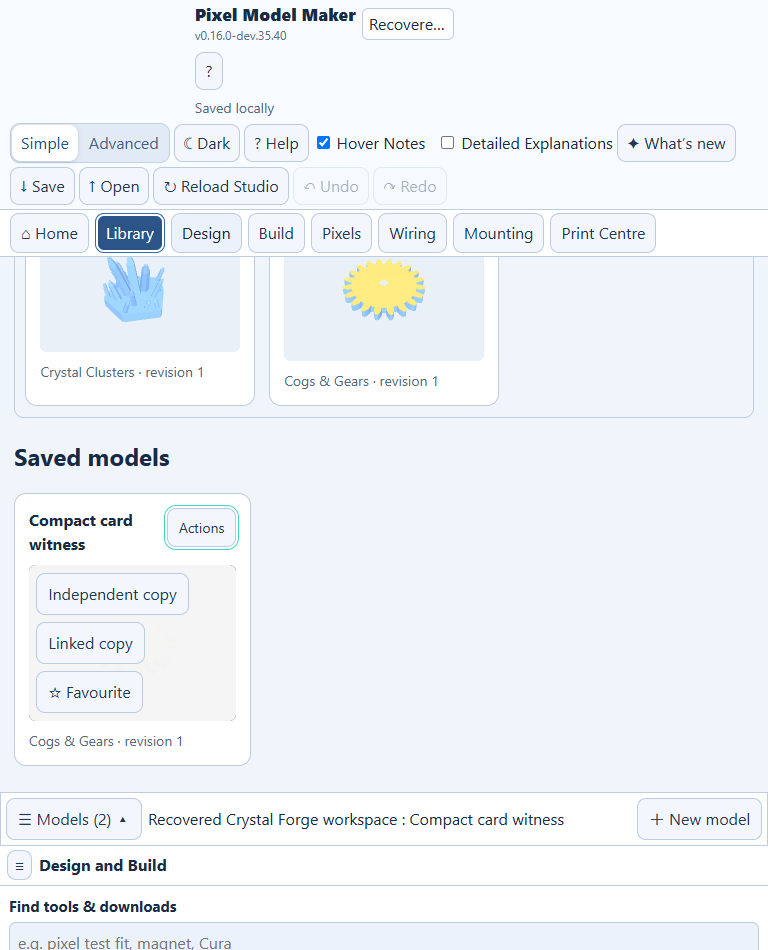
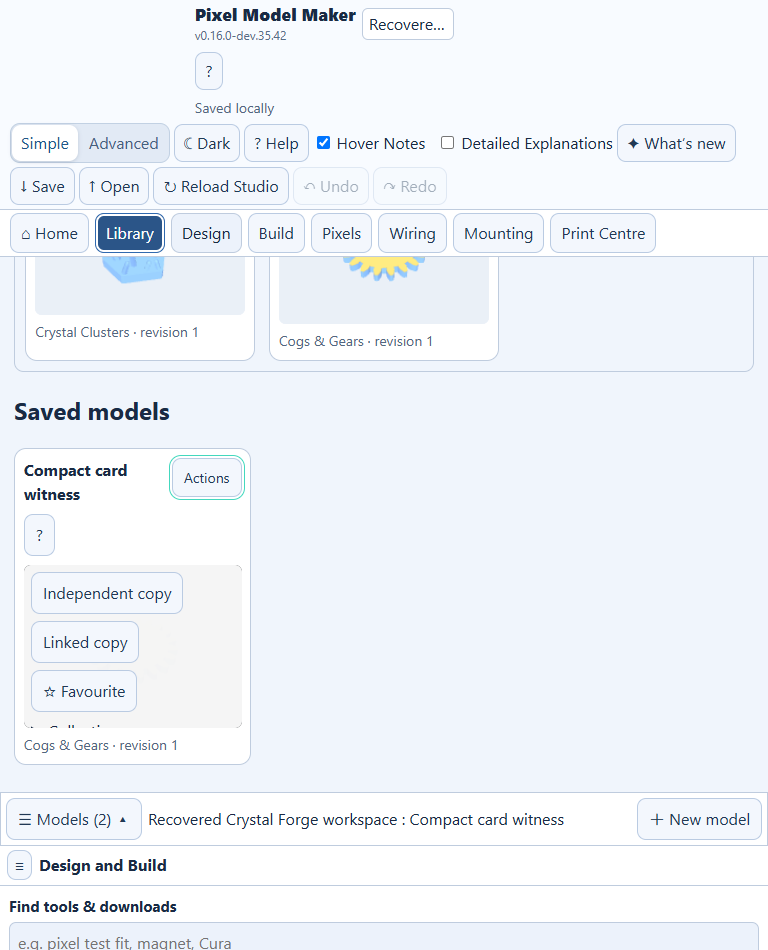
Complete compact Library card disclosure and regression coverage

diff --git a/index.html b/index.html
@@ -205,7 +205,7 @@ body.theme-light .contextual-help-detail{color:#234c71}
 </head>
 <body class="simple">
 <header class="topbar">
-<div class="topcluster"><div class="sms-product"><span class="brand">Pixel Model Maker</span><span class="version">v0.16.0-dev.35.40</span></div><span class="filename" id="projectName">Untitled cluster</span></div>
+<div class="topcluster"><div class="sms-product"><span class="brand">Pixel Model Maker</span><span class="version">v0.16.0-dev.35.42</span></div><span class="filename" id="projectName">Untitled cluster</span></div>
 <nav class="workspace-tabs"><button class="active" data-tab="design">◇ Design</button><button data-tab="build">⚙ Build</button><button data-tab="print">▣ Print</button></nav>
 <div class="topcluster utility"><div class="modebar"><button id="simpleBtn" class="active">Simple</button><button id="advancedBtn">Advanced</button></div><button id="themeBtn" class="utility-button" title="Switch to light theme" aria-label="Switch theme">☀ Light</button><button id="helpBtn" class="utility-button" title="Help and keyboard shortcuts">? Help</button><div class="contextual-help-preferences" role="group" aria-label="Contextual help"><label><input type="checkbox" id="hoverNotes" checked> Hover Notes</label><label><input type="checkbox" id="detailedExplanations"> Detailed Explanations</label></div><button id="changelogBtn" class="utility-button" title="Version history and changes">✦ What’s new</button><button id="saveBtn" title="Download editable project">↓ Save</button><button id="loadBtn" title="Open project">↑ Open</button><input type="file" id="loadFile" accept=".json,application/json"></div>
 </header>
@@ -620,9 +620,10 @@ body.theme-light .contextual-help-detail{color:#234c71}
   </div>
   <div id="infoChangelog" class="dialog-body" role="tabpanel" aria-labelledby="infoTabChangelog" data-info-pane="changelog" tabindex="0" hidden>
 <!-- BEGIN GENERATED RELEASE HISTORY -->
-<div class="release" id="currentRelease"><strong>v0.16.0-dev.35.40 — Read guidance beside settings</strong><ul><li>Use Hover Notes to see short help with a mouse, keyboard or question-mark button.</li><li>Use Detailed Explanations to read longer guidance beside supported settings. Set each option independently and keep your choices between visits.</li></ul></div>
+<div class="release" id="currentRelease"><strong>v0.16.0-dev.35.42 — Browse compact Library cards</strong><ul><li>Browse model and project previews in compact cards. Hover, tab to Actions or tap it to open, copy or organise an item. Press Escape to close the actions.</li></ul></div>
 <section class="release release-draft" aria-label="Unreleased changes"><strong>Unreleased WT-021 draft</strong><ul><li>Crystal’s edge-tab editor shows automatic positions and offers an Add action when the manual list is empty.</li><li>Choose a native screw, magnet or threaded insert profile before placing a mount. Blind pockets have editable diameter and depth. Build checks the remaining stock before saving.</li><li>Native cable routes validate minimum bend-radius edits before saving, preserving the last valid setting when a bend cannot fit.</li><li>Gentle Wave cable grooves can follow height changes in both directions across the actual mesh. Steeper relief still requires another supported installation surface.</li><li>Rectangular Tactile Tiles support serial cable grooves on any of their four planar walls. Build checks the actual material surrounding the groove before preparation.</li></ul><details><summary>More draft changes</summary><ul><li>Native serial wiring can reverse pixel order, fitting directions, pinned openings and tail limits together. Build rejects an unsafe reordering before saving.</li><li>Rotating a shaped fitting on an enabled cable route checks the resulting geometry before saving.</li><li>Numeric movement and keyboard nudges for shaped fittings recheck the installation surface and preserve the last accepted position if stock is missing.</li><li>Crystal uses the measured clearance when selecting an imported profile for the first time. A locally adjusted clearance stays with its existing profile.</li><li>Shaped socket profile and bore size edits are checked against the manufactured geometry before saving.</li><li>Wide native cable tracks extend into round sockets far enough to preserve clearance at the join when the bore can accommodate the track.</li><li>Build checks vaulted channel clearance and supporting roof material before enabling a vault or saving changes to its route settings.</li><li>Native shaped pixel sockets support a conical roof on level underside faces. Build validates the extra roof height before saving. The routed test coupon can use the selected socket’s measurements, clearance, retention and conical roof.</li><li>External backing tabs support underside counterbores and countersinks with editable recess dimensions. Build rejects edits that leave insufficient tab stock.</li><li>Individually placed underside and supported planar top mounts support counterbores and countersinks with exact recess diameter and depth. Build checks the available material before saving.</li><li>Build checks the actual material around recessed screw fixings before saving. Thin stock and nearby cuts that remove the supporting material are refused.</li><li>Build restores the last accepted fixing diameter after an out-of-range edit and preserves exact fractional diameters.</li><li>Native serial routing accepts a minimum bend radius from 1 to 60 mm. Preparation refuses routes that cannot meet the bend constraint.</li><li>Build validates socket retention before saving. Profiles without enough straight body stock show how to adjust the setting.</li><li>Open the Features tab from Help or What’s New to search all seven model builders and open the relevant workspace.</li><li>What’s New takes its version, current notes, unreleased changes and earlier releases directly from this changelog.</li><li>Rotary Caps support an explicit Stationary display mode for fixed external tabs. The moving-control mode refuses attached fixing ears.</li><li>Crystal edge tabs can be used with separately placed manual through-holes. Build rejects a mounting edit that blocks a previously valid cable route.</li><li>External-tab backing preserves eligible Gear top, Wave surface and Tile front routes. Tile backing changes that would obstruct a front channel are rejected.</li><li>Native wiring and manual through-mounts can share a model when the holes clear the channels. Build refuses conflicting mount edits and preserves the saved route.</li><li>Gentle parallel Waves support an open serial groove that follows the measured surface between shaped sockets and out to the perimeter.</li><li>Square Tactile Tiles can cut a flat serial groove between shaped fittings on the front wall. Preparation checks the remaining wall and rejects intersecting cuts.</li><li>Shaped socket selection rings and port guides now follow the actual socket opening and installation normal on side and sloped surfaces.</li><li>Suitable solid decorative Gears can route flat serial grooves between shaped top-face pixel sockets. Preparation checks the floor and side walls.</li><li>Native underside route preparation checks for continuous material above and beside the actual channel and catches intersecting cuts outside its socket junctions.</li><li>Build now exposes 3–10 mm fitting backing thickness with a 4 mm reset. Existing shaped sockets and enabled cable routes are checked before the thickness change is saved.</li><li>Build fitting previews now show insertion obstruction and insufficient surrounding stock from manufacturing checks, warn about nearby cut conflicts, and report overlap between the measured pixel and wire cuts.</li><li>Introduced physical positive profile and real negative Manifold cutter previews in Crystal and targeted Gear-top / Tile-underside workflows, with exact cutter-envelope tests. Other families, route stock protection and arbitrary-face routing remain incomplete.</li><li>Rebuilt the socket cutter as a connected profile after finding a measured 0.62463 mm³ positive-envelope mismatch; added stricter fail-closed export mesh checks.</li><li>Improved route-roof and independent physical-wire-width versus bore-fit acceptance tests.</li><li>Archived original Codex briefs and added a token-efficient overnight execution protocol, acceptance register, progress log and recovery pointer in PR #102.</li></ul></details></section>
-<details class="release release-archive"><summary>Earlier releases</summary><details class="release"><summary>v0.16.0-dev.35.39 — Browse open models in the viewport</summary><ul><li>Open the Models drawer from the bottom of the viewport to find, switch, reorder, rename or close open models.</li><li>Name a new model before adding it. Use Info to check its project, source and revision.</li><li>See previews generated from the saved model when its card comes into view. Retry a preview when it cannot render.</li></ul></details>
+<details class="release release-archive"><summary>Earlier releases</summary><details class="release"><summary>v0.16.0-dev.35.40 — Read guidance beside settings</summary><ul><li>Use Hover Notes to see short help with a mouse, keyboard or question-mark button.</li><li>Use Detailed Explanations to read longer guidance beside supported settings. Set each option independently and keep your choices between visits.</li></ul></details>
+<details class="release"><summary>v0.16.0-dev.35.39 — Browse open models in the viewport</summary><ul><li>Open the Models drawer from the bottom of the viewport to find, switch, reorder, rename or close open models.</li><li>Name a new model before adding it. Use Info to check its project, source and revision.</li><li>See previews generated from the saved model when its card comes into view. Retry a preview when it cannot render.</li></ul></details>
 <details class="release"><summary>v0.16.0-dev.35.38 — Recover larger private Studio backups</summary><ul><li>Restore and verify larger model assets and Studio manifests through GitHub's authenticated Git Blob API when the Contents API omits inline data.</li><li>Preserve existing saved projects and private backup revisions if an oversized asset cannot be read.</li></ul></details>
 <details class="release"><summary>v0.16.0-dev.35.36 — Organised printing source files</summary><ul><li>Find the production pack, print-quality checks, Cura model advice and optical reports together in a dedicated printing source folder.</li><li>Keep all existing model settings, saved projects and STL/3MF output behaviour unchanged; this is a source layout improvement.</li><li>Preserve SHA-specific GitHub Pages files for both current and older browser tabs while source modules move.</li></ul></details>
 <details class="release"><summary>v0.16.0-dev.35.35 — Find templates and projects in Library</summary><ul><li>Browse templates first, then open saved versions from collapsible project folders.</li><li>See the active project separately from its saved versions. Fold or expand each folder with the keyboard.</li></ul></details>

diff --git a/src/ui/library-card.css b/src/ui/library-card.css
@@ -1,8 +1,8 @@
-.sms-library-card{position:relative;display:grid;grid-template-rows:auto auto;align-content:start;min-width:0;gap:.4rem;padding:.55rem}
-.sms-library-artwork{grid-row:1;position:relative;min-width:0;isolation:isolate;border-radius:.45rem;background:var(--panel2)}
+.sms-tile.sms-library-card{position:relative;display:grid;grid-template-rows:auto auto;align-content:start;min-width:0;gap:.4rem;padding:.55rem}
+.sms-library-artwork{grid-row:2;position:relative;min-width:0;isolation:isolate;border-radius:.45rem;background:var(--panel2)}
 .sms-library-artwork>img,.sms-library-artwork .sms-saved-preview>img{display:block;width:100%;height:auto;aspect-ratio:4/3;object-fit:contain}
 .sms-library-artwork .sms-picture-empty{min-height:5rem;padding:.5rem;overflow-wrap:anywhere}
-.sms-library-caption{grid-row:2;display:flex;align-items:start;flex-wrap:wrap;gap:.35rem;min-width:0}
+.sms-library-caption{grid-row:1;display:flex;align-items:start;flex-wrap:wrap;gap:.35rem;min-width:0}
 .sms-library-caption h3{flex:1 1 7rem;min-width:0;overflow-wrap:anywhere;margin:0}
 .sms-library-actions-toggle{flex:none;min-height:32px;font-size:.875rem}
 .sms-library-card>.sms-descriptor{margin:0;overflow-wrap:anywhere}
@@ -15,4 +15,8 @@
 .sms-library-artwork:has(.sms-picture-empty) .sms-library-actions{position:relative;max-height:12rem}
 .sms-library-actions:focus-within{outline:1px solid var(--teal)}
 .sms-library-card:has(.sms-library-actions:not([hidden])) .sms-library-actions-toggle{outline:1px solid var(--teal)}
-@media(max-width:440px){.sms-library-actions{position:relative;max-height:10rem}.sms-library-caption h3{flex-basis:100%}}
+@media(max-width:440px){.sms-library-artwork>img,.sms-library-artwork .sms-saved-preview>img{max-height:170px}}
+
+.sms-library-caption>.contextual-help:has(.contextual-help-detail){max-inline-size:100%;overflow-wrap:anywhere}
+.show-detailed-explanations .sms-library-caption>.contextual-help{flex-basis:100%}
+.sms-library-card :is(button,summary):focus-visible{outline:2px solid var(--teal);outline-offset:2px}

diff --git a/tooltips.js b/tooltips.js
@@ -649,7 +649,7 @@ export function installContextualHelp(doc=document){
  function decorate(control){
   // Repeated drawer actions expose their short note on hover/focus; the
   // drawer filter and naming fields receive adjacent detailed guidance.
-  if(control.matches('.md-card button,.md-header button,.sms-library-actions-toggle'))return;
+  if(control.matches('.md-card button,.md-header button'))return;
   const anchor=control.closest('label,.control,.sms-model-control,.sms-visual-range')||control;
   const existing=controls.get(control);
   if(existing?.anchor===anchor&&existing.help.parentElement===anchor.parentElement)return;

diff --git a/docs/WT025_READABLE_USER_GUIDE.md b/docs/WT025_READABLE_USER_GUIDE.md
@@ -17,7 +17,9 @@ The **Features** tab under Help provides a visual list of model builders and ava
 
 ## Find projects and templates in the Library
 
-In the WT-023B B1 candidate (#151), Templates appears first. Projects contains one expandable folder per project, with the active project marked separately from its saved versions. Use Tab to reach a folder heading and Enter or Space to open or fold it. Open a saved version through its Open project action. The current project is saved as a recoverable copy before switching. Folder expansion is remembered within the browser tab, including on reload.
+Templates appears first. Projects contains one expandable folder per project, with the active project marked separately from its saved versions. Use Tab to reach a folder heading and Enter or Space to open or fold it. Open a saved version through its Open project action. The current project is saved as a recoverable copy before switching. Folder expansion is remembered within the browser tab, including on reload.
+
+Library cards show a preview and the item name. Hover over a card or tab to **Actions** to find its commands. On a touchscreen, tap **Actions**. Press Escape to close the commands and return to **Actions**. If a preview could not load, use **Retry** on the card.
 
 Saved models and the existing favourites and collection filters remain available. Template destinations still use the established actions. The planned destination chooser will be implemented separately under #139.
 

diff --git a/docs/AI_HANDOVER.md b/docs/AI_HANDOVER.md
@@ -4,6 +4,10 @@ WT-024 owns shared setting help in [tooltips.js](../tooltips.js) and [contextual
 
 See the [WT-023 integration checkpoint](PROJECT_STATUS.md#wt-023-integration-checkpoint--23-november-2026) for the current review and CI pointers.
 
+## WT-023B2a compact Library cards
+
+The [Library card helper](../src/ui/library-card.mjs) reveals the existing model, project and template controls. The callbacks and preview queue remain owned by `sensory-studio.js`. Keep preview status and Retry reachable and keep display preferences outside the saved workspace. The card disclosure uses the shared WT-024 help registry. [#139](https://github.com/connorturansky-svg/crystal-forge/issues/139) tracks acceptance. B2b project inspection and destination selection follow owner review. Info consolidation is tracked separately under [#154](https://github.com/connorturansky-svg/crystal-forge/issues/154).
+
 ## WT-023B B1 Library view
 
 Templates precede single-level project folders. The index derives folders from `project.id` and versions from `snapshotId`; collapse preferences live in session storage. Opening a saved version uses merged WT-023A #147. Existing template actions retain their destinations and naming behaviour. Template destination selection, naming, resources and cloud UI are follow-ups in the [WT-023 acceptance guide](WT023_NEXT_SLICES_ACCEPTANCE_20261123.md). See #139 and #151 for exact-head verification.

diff --git a/docs/TESTING.md b/docs/TESTING.md
@@ -170,3 +170,7 @@ For each PR, state: **commit**, what changed, commands/workflow run links, envir
 - **Geometry:** test deterministic per-ID end-width randomness at extreme width ratios and stable height; use `crystalOrientation` in fabricated test meshes (never the old unrotated fixture). Check every tilted root-ring point sits below the mound, not only the centre.
 - **Hardware:** auto planner must find a pixel hole when the enlarged base has space; tab planner must return hole count matching accepted ear count; Manifold must keep ears fused to one body and cut holes through them; blind socket report must preserve at least 2.8 mm modeled roof and a curved cap.
 - **Manual:** Cura preview for the real LED bore ceiling and LED side vents, actual tie/bolt tab clearance, failed/partial tabs and support-free mound roofs. A Manifold status is not certification of lighting, mechanical strength or FDM printability.
+
+### Compact Library cards
+
+With the Studio served on port 4321 and Playwright Chromium available, run `node tests/wt023-compact-library-browser.mjs`. The browser core suite runs this fixture and the workflow uploads its screenshots. It verifies genuine saved previews, stable storage during disclosure, pointer, keyboard and touch interaction, and a linked-copy result.

diff --git a/docs/ARCHITECTURE.md b/docs/ARCHITECTURE.md
@@ -75,3 +75,7 @@ Version text and the in-app changelog live in `index.html`, while `CHANGELOG.md`
 ## Architectural hazards / planned improvements
 
 The unbundled ESM architecture is simple but CDN availability matters. Geometry/fabrication can be computationally expensive. Tests currently cover representative configurations rather than all slider combinations or physical printing. UI status/warnings must expose what has and has not been checked. Future changes should add testability at boundaries rather than rewrite the entire app merely to introduce a test runner.
+
+### Library card presentation
+
+`src/ui/library-card.mjs` manages the action disclosure for each Library card. `sensory-studio.js` supplies the existing callbacks and genuine saved preview, including status and retry. Disclosure state is ephemeral and outside the project data and transaction path.

diff --git a/CHANGELOG.md b/CHANGELOG.md
@@ -58,6 +58,10 @@ Only in the draft integration branch; **not a production release**. Owner approv
 
 **Codex rule:** after each independently tested *user-visible* milestone, update this draft section with concise impact and limitations in the same batched source/test commit. Synchronise in-app What's New/version data through UX-01. Never mislabel a draft-only change as shipped.
 
+## v0.16.0-dev.35.42 — Browse compact Library cards
+
+- Browse model and project previews in compact cards. Hover, tab to Actions or tap it to open, copy or organise an item. Press Escape to close the actions.
+
 ## v0.16.0-dev.35.40 — Read guidance beside settings
 
 - Use Hover Notes to see short help with a mouse, keyboard or question-mark button.
